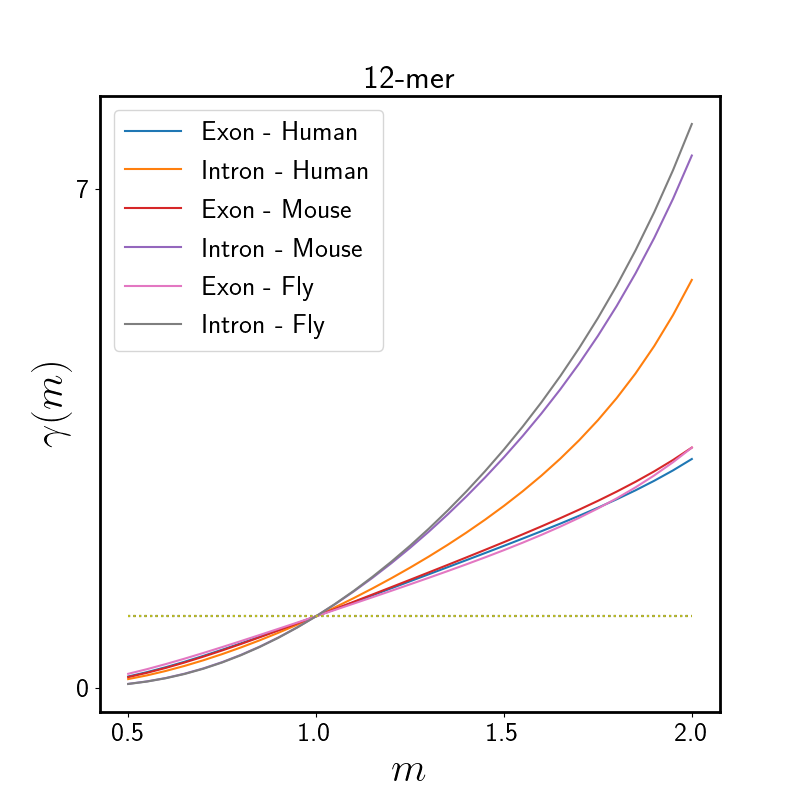
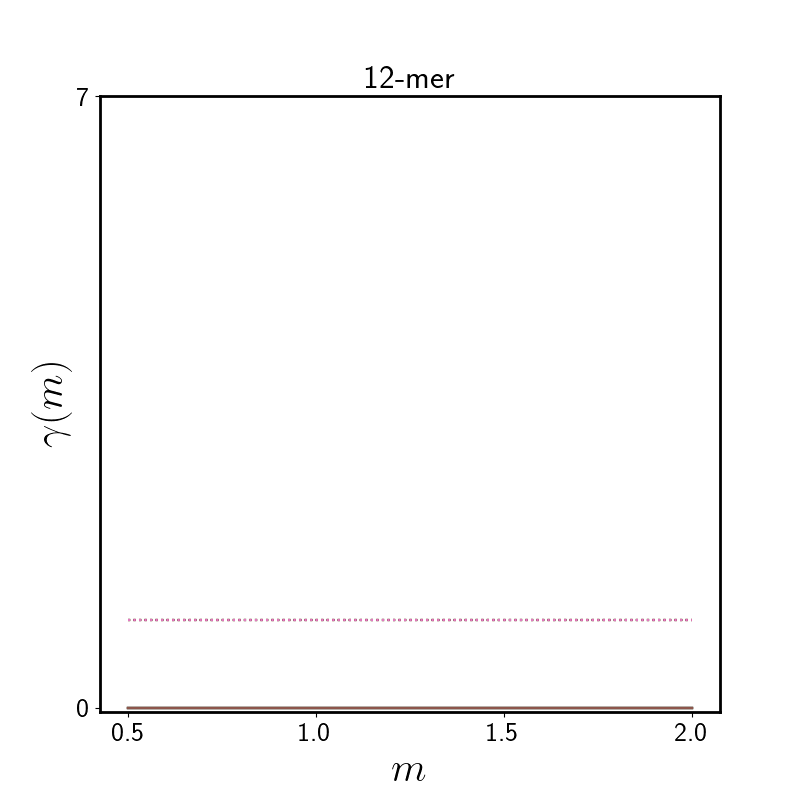
Something is odd with primate moments

diff --git a/FractalDimension/Mouse_Fly.py b/FractalDimension/Mouse_Fly.py
@@ -18,7 +18,28 @@ def main():
     Does the Moment calculations for the fly and Mouse.
 
     '''
-    primates(log_transform = np.log2, just_import = False, n = 20_000)
+    primate_filepath = cwd.parent / "Data_Files" / "Primates" / "Genetics" # species / f"{species}_{genome}_Frame.pkl"
+    species = ["Callithrix_jacchus", "Gorilla_gorilla_gorilla" ,"Macaca_fascicularis" ,"Macaca_mulatta" ,"Nomascus_leucogenys" ,"Pan_paniscus" ,"Pan_troglodytes" ,"Papio_anubis" ,"Pongo_pygmaeus_abelii"]
+    genome = ["calJac4", "gorGor6", "macFas5", "rheMac8", "nomLeu3", "panPan3", "panTro6", "papAnu4", "ponAbe3"]
+
+    primate_sg = {s:genome[i] for i, s in enumerate(species)}
+    for prim, gen in primate_sg.items():
+        local_primate_filepath = primate_filepath / prim
+        local_primate_he: pathlib.Path = local_primate_filepath / "HEData"
+
+    with open(local_primate_he / "Exon_6mer.pkl", "rb") as file:
+        data = pickle.load(file)
+
+    print(data)
+    print("\n\n")
+    with open(local_primate_he / "Intron_6mer.pkl", "rb") as file:
+        data = pickle.load(file)
+
+    print(data)
+
+
+
+    # primates(log_transform = np.log2, just_import = False, n = 20_000, reload = True)
 
 
 
@@ -49,7 +70,7 @@ def main():
     # # all_species_plots()
 
 
-def primates(*args, **kwargs):
+def primates(reload: bool = False, *args, **kwargs):
     '''
     This looks at the primates and does a lot.
     '''
@@ -69,20 +90,28 @@ def primates(*args, **kwargs):
 
     for prim, gen in primate_sg.items():
         local_primate_filepath = primate_filepath / prim
-        exon, intron = gen_heat_data(local_primate_filepath / f"{prim}_{gen}_Frame.pkl", *args, **kwargs)
-
         local_primate_he: pathlib.Path = local_primate_filepath / "HEData"
-        local_primate_he.mkdir(parents = True, exist_ok = True)
 
-        exon.to_pickle(local_primate_he / "Exon_6mer.pkl")
-        intron.to_pickle(local_primate_he / "Intron_6mer.pkl")
+        if reload:
+            pass
+        else:
+            local_primate_he.mkdir(parents = True, exist_ok = True)
 
-        local_me, local_mi, uni, _ = MC.moments_v3(local_primate_he, ms, 6, 6, N_value = True)
-        me[prim] = {"data": local_me, "maker": None}
-        mi[prim] = {"data": local_mi, "maker": None}
+            exon, intron = gen_heat_data(local_primate_filepath / f"{prim}_{gen}_Frame.pkl", *args, **kwargs)
+            exon.to_pickle(local_primate_he / "Exon_6mer.pkl")
+            intron.to_pickle(local_primate_he / "Intron_6mer.pkl")
+
+        local_me, local_mi, _, _ = MC.moments_v3(local_primate_he, ms, 6, 6, N_value = True)
+        me[prim] = {"data": local_me, "marker": None}
+        mi[prim] = {"data": local_mi, "marker": None}
+
+    hs_me, hs_mi, uni, _ = MC.moments_v3(cwd / "HS_Dicts_EF", ms, 6, 6, N_value = True)
+    me["H.S."] = {"data": hs_me, "marker": None}
+    mi["H.S."] = {"data": hs_mi, "marker": None}
 
 
-    MC.multiple_species_plots(ms, me, mi, uni, cwd / "TE_Images_ForPaper" / "AllSpecies", x_ticks={0.5: 0.5, 1.0: 1.0, 1.5: 1.5, 2.0: 2.0},  y_ticks = {0: 0, 7: 7})
+
+    MC.multiple_species_plots(ms, me, mi, uni, cwd / "TE_Images_ForPaper" / "AllSpecies", x_ticks={0.5: 0.5, 1.0: 1.0, 1.5: 1.5, 2.0: 2.0}, legend=False)
 
 
     # with open(cwd.parent / "Data_Files" / "Primates" / "Genetics" / species / f"{species}_{genome}_Frame.pkl", "rb") as file:

diff --git a/DataCollection/Intergenomic.py b/DataCollection/Intergenomic.py
@@ -41,6 +41,8 @@ def select_data(input_file: pathlib.Path, n: int = 250):
     subdata = data.sample(n = n)
     subindex = tuple(subdata.index)
 
+    file_path = cwd.parent / "Data_Files" / "Intergenomic" / "Seq2Check"
+
     # Goes through the lines and grabs the minimum positive distance between txS and txE: txS - txE
     # That becomes the new start and end:
     # txE = txS_inter
@@ -50,13 +52,38 @@ def select_data(input_file: pathlib.Path, n: int = 250):
         dataN: pandas.DataFrame = data.loc[data.index != index, :]
         txStart2 = subdata.loc[index, "txStart"]
         txEnd2 = subdata.loc[index, "txEnd"]
+        chrom = subdata.loc[index, "chrom"]
 
-        dataN["delta_S"] = txStart2 - dataN["txStart"]
-        dataN["delta_E"] = dataN["txEnd"] - txEnd2
+        center_name = subdata.loc[index, "name"]
+
+        dataN["delta_Left"] = txStart2 - dataN["txEnd"]  # looking for the left sided intergenomic data
+        dataN["delta_Right"] = dataN["txStart"] - txEnd2  # looking for the right sided data
 
         # print(dataN)
-        something = min(filter(lambda x: x > 0, dataN["delta_S"]))
-        txStart = min(filter(lambda x: x > 0, dataN["delta_E"]))
+        closest_start = min(filter(lambda x: x > 0, dataN["delta_Left"]))  # this looks for the start position of the left intergenomic region
+        closest_end = min(filter(lambda x: x > 0, dataN["delta_Right"]))  # this look for the end position of the right intergenomic region
+
+        left_start_index = dataN.isin([closest_start]).any(axis=1).idxmax()
+        right_end_index = dataN.isin([closest_end]).any(axis=1).idxmax()
+
+        left_start = dataN.loc[left_start_index, "txEnd"]
+        left_name = dataN.loc[left_start_index, "name"]
+        right_end = dataN.loc[right_end_index, "txStart"]
+        right_name = dataN.loc[right_end_index, "name"]
+
+        print("\tLeft Query")
+        left_query, left_url = API.sequence(chrom = chrom, start = left_start, end = txStart2, strand = "+")
+        print("\tWriting Left Query")
+        with open(file_path / f"{left_name}_{center_name}", "w+") as file:
+            file.write(f"{left_name}_{center_name}\n{chrom}\n\n{left_url}\n\n\n{left_query}")
+
+        print("\tRight Query")
+        right_query, right_url = API.sequence(chrom = chrom, start = txEnd2, end = right_end, strand = "+")
+        print("\tWriting Right Query")
+        with open(file_path / f"{center_name}_{right_name}", "w+") as file:
+            file.write(f"{center_name}_{right_name}\n{chrom}\n\n{right_url}\n\n\n{right_query}")
+
+        # exit()
 
         # need to get the index of these values.
 

diff --git a/FractalDimension/MomentCalculations.py b/FractalDimension/MomentCalculations.py
@@ -605,7 +605,7 @@ def uniform_density(data: pandas.DataFrame, m: int = 1, *args, **kwargs):
 
 
 def multiple_species_plots(ms: list, me: dict, mi: dict, uni: dict, output_dir: pathlib.Path,
-                           x_ticks: dict = None, y_ticks: dict = None):
+                           x_ticks: dict = None, y_ticks: dict = None, legend: bool = True, *args, **kwargs):
     '''
     Because I just want to do it over here, I'm going to dump the script to do multiple species plots here.
     ms should be a list of the moments used, which will in turn become the x axis.
@@ -625,6 +625,7 @@ def multiple_species_plots(ms: list, me: dict, mi: dict, uni: dict, output_dir: 
         print(f"Species = {species}")
         subdict: dict = items["data"]
         for key, value in subdict.items():
+            print(f"plotting for {2*key}-mer")
             ms_markers = ms[::5]
             me_markers = value[::5]
             mi_markers = mi[species]["data"][key][::5]
@@ -635,24 +636,24 @@ def multiple_species_plots(ms: list, me: dict, mi: dict, uni: dict, output_dir: 
             axs.plot(ms_markers, mi_markers, label = f"Intron - {species}", marker = mi[species]["marker"], markersize = 5)
             axs.plot(ms, uni[key], linestyle = "dotted")
         
-        print(f"plotting for {2*key}-mer")
-        axs.set_title(f"{2*key}-mer")
-        axs.set_ylabel(r"$\gamma(m)$", fontsize = 30) #, rotation='horizontal')
-        axs.set_xlabel(r"$m$", fontsize = 30)
+    axs.set_title(f"{2*key}-mer")
+    axs.set_ylabel(r"$\gamma(m)$", fontsize = 30) #, rotation='horizontal')
+    axs.set_xlabel(r"$m$", fontsize = 30)
+    if legend:
         axs.legend()
-        
-        if isinstance(x_ticks, dict):
-            axs.set_xticks(list(x_ticks.keys()))
-            axs.set_xticklabels(list(x_ticks.values()))
-        else:
-            axs.set_xticks([])
-        if isinstance(y_ticks, dict):
-            axs.set_yticks(list(y_ticks.keys()))
-            axs.set_yticklabels(list(y_ticks.values()))
-        else:
-            axs.set_yticks([])
+    
+    if isinstance(x_ticks, dict):
+        axs.set_xticks(list(x_ticks.keys()))
+        axs.set_xticklabels(list(x_ticks.values()))
+    else:
+        axs.set_xticks([])
+    if isinstance(y_ticks, dict):
+        axs.set_yticks(list(y_ticks.keys()))
+        axs.set_yticklabels(list(y_ticks.values()))
+    else:
+        axs.set_yticks([])
 
-        fig.savefig(output_dir / f"{2*key}-mer")
+    fig.savefig(output_dir / f"{2*key}-mer")
 
 
 
